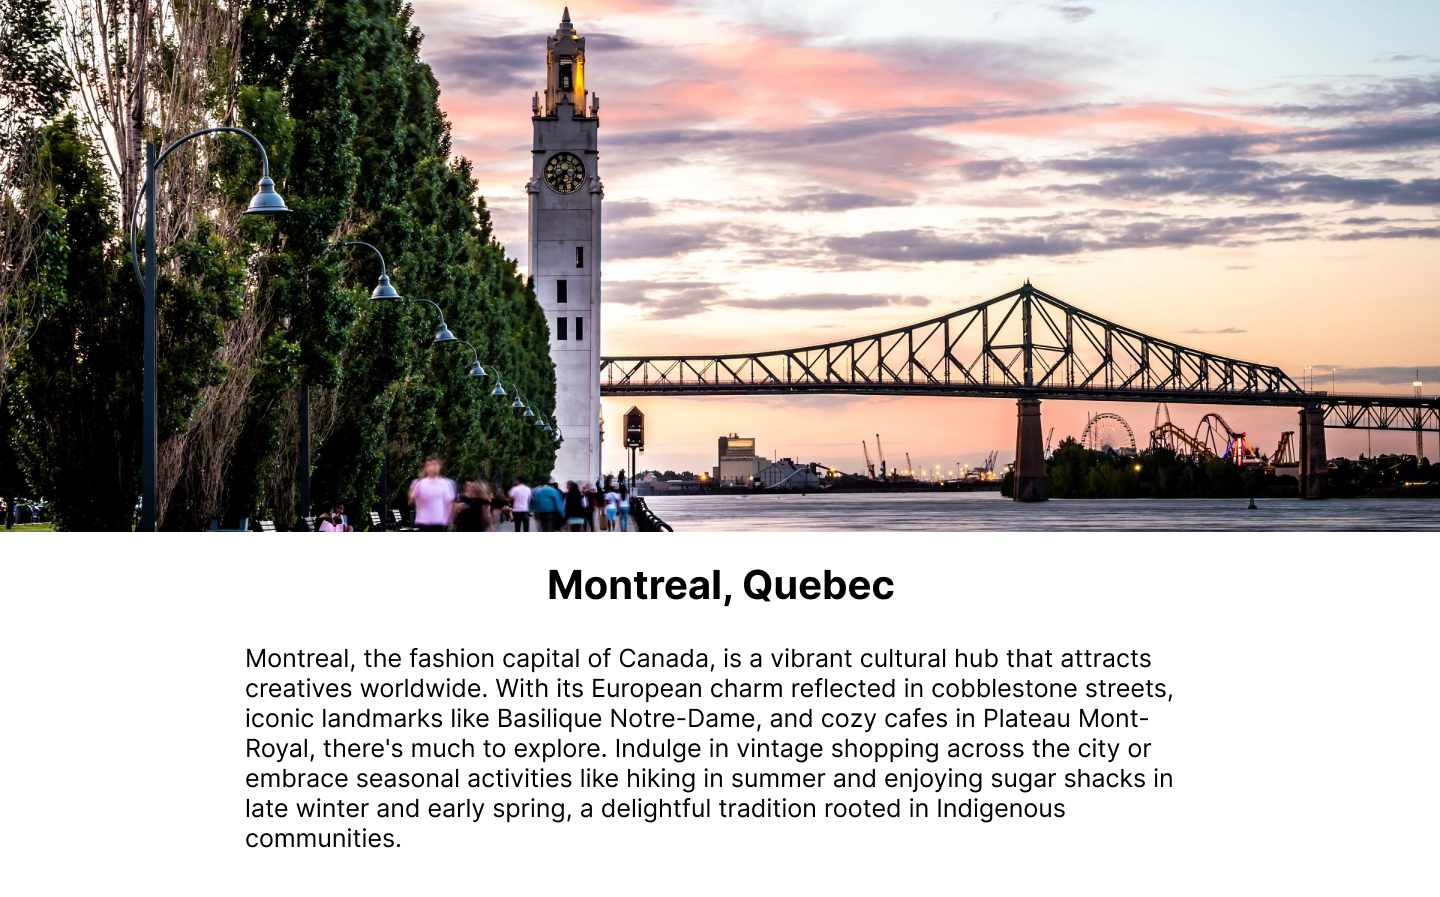
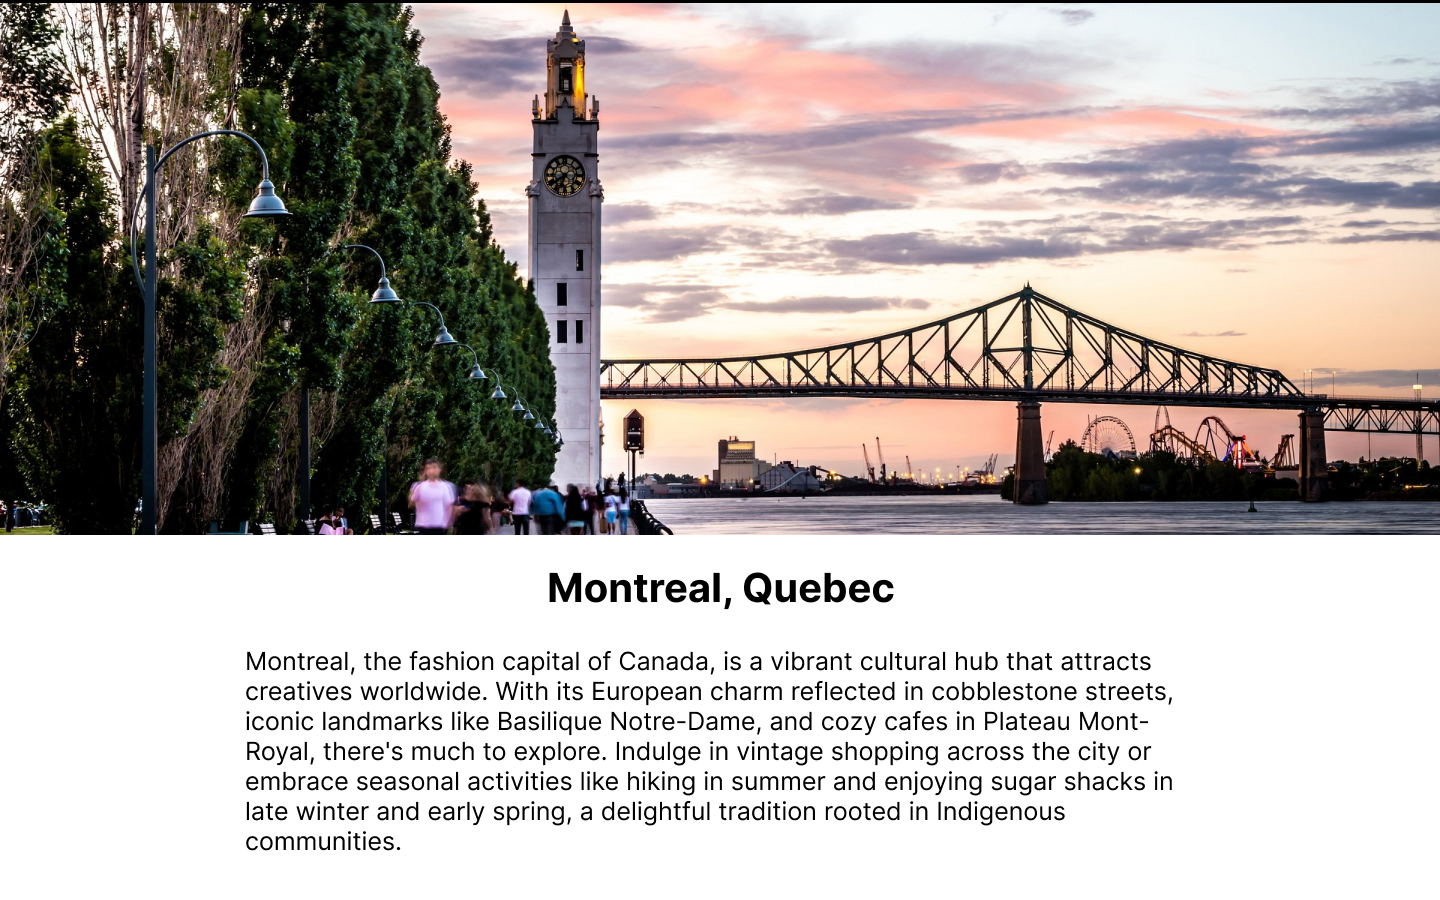
m

diff --git a/MrCanadaData/Montreal Restaurants/content.html b/MrCanadaData/Montreal Restaurants/content.html
@@ -1,3 +1,3 @@
 <html>
-<img src= width="1080" height="338">
+<img src= width="1080" height="1013">
 </html>

diff --git a/MrCanadaData/Quebec City Attractions/content.html b/MrCanadaData/Quebec City Attractions/content.html
@@ -1,3 +1,3 @@
 <html>
-<img src= width="1080" height="340">
+<img src= width="1080" height="1013">
 </html>

diff --git a/MrCanadaData/Montreal PlacesOfWorship/content.html b/MrCanadaData/Montreal PlacesOfWorship/content.html
@@ -1,3 +1,3 @@
 <html>
-<img src= width="1080" height="336">
+<img src= width="1080" height="673">
 </html>

diff --git a/MrCanadaData/Montreal/thumbnail.html b/MrCanadaData/Montreal/thumbnail.html
@@ -1,3 +1,3 @@
 <html>
-<img src= width="125" height="24">
+<img src= width="187" height="60">
 </html>

diff --git a/MrCanadaData/Quebec City Attractions/thumbnail.html b/MrCanadaData/Quebec City Attractions/thumbnail.html
@@ -1,3 +1,3 @@
 <html>
-<img src= width="180" height="60">
+<img src= width="151" height="60">
 </html>

diff --git a/MrCanadaData/Quebec City PlacesOfWorship/thumbnail.html b/MrCanadaData/Quebec City PlacesOfWorship/thumbnail.html
@@ -1,3 +1,3 @@
 <html>
-<img src= width="230" height="60">
+<img src= width="151" height="60">
 </html>

diff --git a/MrCanadaData/Quebec City Restaurants/thumbnail.html b/MrCanadaData/Quebec City Restaurants/thumbnail.html
@@ -1,3 +1,3 @@
 <html>
-<img src= width="180" height="60">
+<img src= width="151" height="60">
 </html>

diff --git a/src/Main.java b/src/Main.java
@@ -12,11 +12,11 @@ public class Main {
 		frame.setDefaultCloseOperation(JFrame.EXIT_ON_CLOSE);
 		JPanel panel = new JPanel();
 		panel.setLayout(null);
-		panel.setPreferredSize(new Dimension(1080, 1000));
+		panel.setPreferredSize(new Dimension(1080, 1400));
 		panel.setLocation(0, 0);
 		Page page = new Page(panel, "DestinationCatalog");
 		page.open();
-		frame.setSize(new Dimension(1080, 1000));
+		frame.setSize(new Dimension(1080, 1400));
 		JScrollPane scroll = new JScrollPane(panel);
 		frame.add(scroll);
 		frame.setVisible(true);
